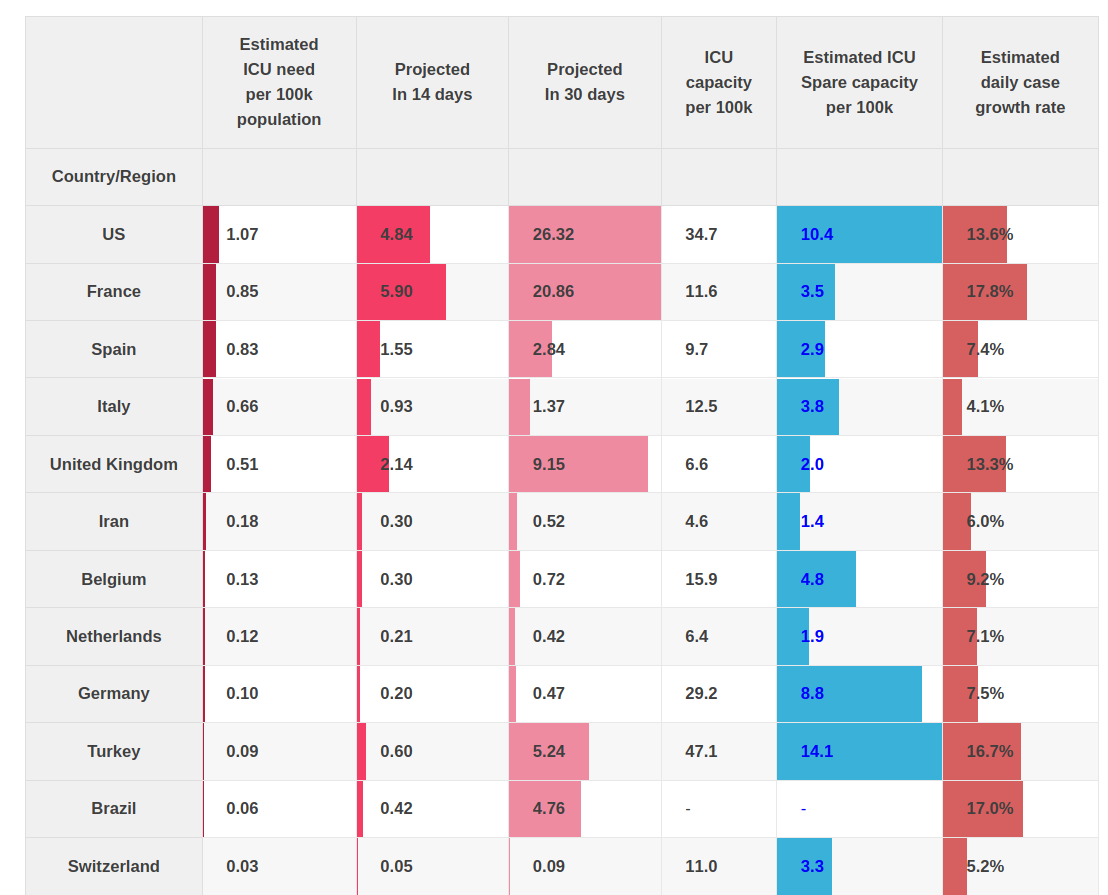
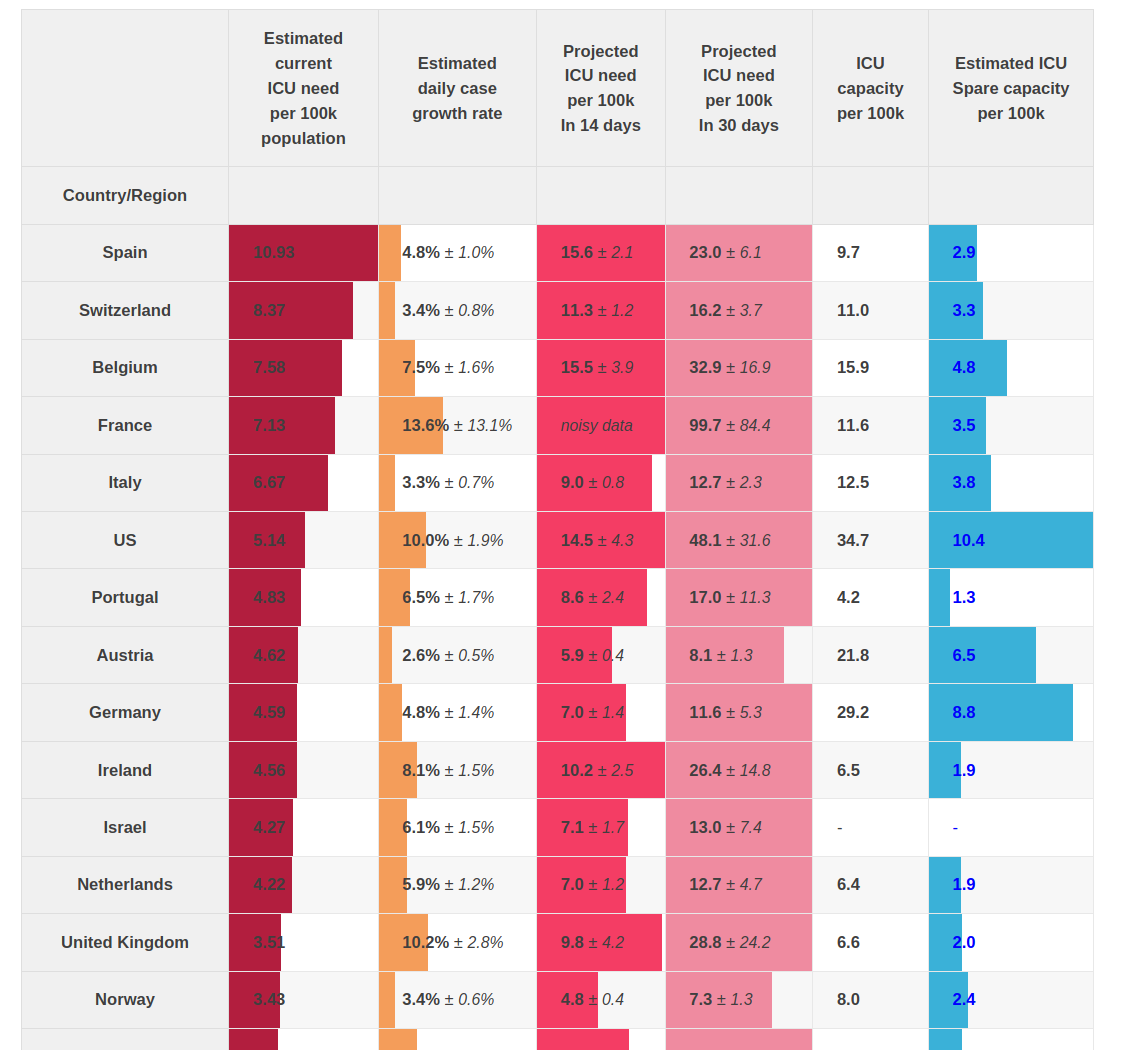
Fix and update ICU calculation, remove separate ICU notebook.

diff --git a/_notebooks/2020-03-27-covid19-progress-projections.py b/_notebooks/2020-03-27-covid19-progress-projections.py
@@ -22,7 +22,7 @@
 # - categories: [overview]
 # - author: <a href=https://github.com/artdgn/>artdgn</a>
 # - permalink: /covid-progress-projections/
-# - image: images/interactive-model.png
+# - image: images/icu-need.png
 # - toc: true
 # - hide: false
 # -
@@ -36,14 +36,15 @@ import covid_helpers
 
 helper = covid_helpers.OverviewData
 stylers = covid_helpers.PandasStyling
-df = helper.filter_df(helper.table_with_projections())
+df_all = helper.table_with_projections()
+df = helper.filter_df(df_all)
 df.columns
 # -
 
 # ## Projected need for ICU beds
-# > Top 20 countries by current estimated need.
+# > Countries sorted by current estimated need.
 #
-# - ICU need is estimated as [6% of active cases](https://medium.com/@joschabach/flattening-the-curve-is-a-deadly-delusion-eea324fe9727).
+# - ICU need is estimated as [4.4% of active reported cases](https://www.imperial.ac.uk/media/imperial-college/medicine/sph/ide/gida-fellowships/Imperial-College-COVID19-NPI-modelling-16-03-2020.pdf).
 # - ICU capacities are from [Wikipedia](https://en.wikipedia.org/wiki/List_of_countries_by_hospital_beds) (OECD countries mostly) and [CCB capacities in Asia](https://www.researchgate.net/publication/338520008_Critical_Care_Bed_Capacity_in_Asian_Countries_and_Regions).
 # - ICU spare capacity is based on 70% normal occupancy rate ([66% in US](https://www.sccm.org/Blog/March-2020/United-States-Resource-Availability-for-COVID-19), [75% OECD](https://www.oecd-ilibrary.org/social-issues-migration-health/health-at-a-glance-2019_4dd50c09-en))
 # - Details of estimation and prediction calculations are in [Appendix](#appendix).
@@ -61,7 +62,7 @@ df.columns
 
 # +
 #hide_input
-df_data = df.sort_values('needICU.per100k', ascending=False).head(20)
+df_data = df.sort_values('needICU.per100k', ascending=False)
 df_pretty = df_data.copy()
 df_pretty['needICU.per100k.+14d'] = stylers.with_errs_float(
     df_pretty, 'needICU.per100k.+14d', 'needICU.per100k.+14d.err')
@@ -208,7 +209,7 @@ df_data[pretty_cols.values()].style\
            s_v=df_data['affected_ratio.est.+14d'], 
            subset=pretty_cols['progress'])\
     .apply(stylers.add_bar, color='#f43d64',
-           s_v=df_data['needICU.per100k.+14d']/3, 
+           s_v=df_data['needICU.per100k.+14d']/10, 
            subset=pretty_cols['icu'])\
     .apply(stylers.add_bar, color='#918f93',
            s_v=df_data['Deaths.new.per100k']/df_data['Deaths.new.per100k'].max(), 
@@ -219,17 +220,56 @@ df_data[pretty_cols.values()].style\
 # ## Appendix
 # - I'm not an epidemiologist. This is an attempt to understand what's happening, and what the future looks like if current trends remain unchanged.
 # - Everything is approximated and depends heavily on underlying assumptions.
-# - Total case estimation calculated from deaths by:
-#     - Assuming that unbiased fatality rate is 1.5% (from heavily tested countries / the cruise ship data) and that it takes 8 days on average for a case to go from being confirmed positive (after incubation + testing lag) to death. This is the same figure used by ["Estimating The Infected Population From Deaths"](https://covid19dashboards.com/covid-infected/).
-#     - Testing bias: the actual lagged fatality rate is than divided by the 1.5% figure to estimate the testing bias in a country. The estimated testing bias then multiplies the reported case numbers to estimate the *true* case numbers (*=case numbers if testing coverage was as comprehensive as in the heavily tested countries*).
-#     - The testing bias calculation is a high source of uncertainty in all these estimations and projections. Better source of testing bias (or just *true case* numbers), should make everything more accurate.
 # - Projection is done using a simple [SIR model](https://en.wikipedia.org/wiki/Compartmental_models_in_epidemiology#The_SIR_model) with (see [examples](#examples)) combined with the approach in [Total Outstanding Cases](https://covid19dashboards.com/outstanding_cases/#Appendix:-Methodology-of-Predicting-Recovered-Cases):
 #     - Growth rate calculated over the 5 past days. This is pessimistic - because it includes the testing rate growth rate as well, and is slow to react to both improvements in test coverage and "flattening" due to social isolation.
 #     - Confidence bounds are calculated by from the weighted STD of the growth rate over the last 5 days. Model predictions are calculated for growth rates within 1 STD of the weighted mean. The maximum and minimum values for each day are used as confidence bands.
 #     - For projections (into future) very noisy projections (with broad confidence bounds) are not shown in the tables.
-#     - Recovery probability being 1/20 (for 20 days to recover) where the rate estimated from [Total Outstanding Cases](https://covid19dashboards.com/outstanding_cases/#Appendix:-Methodology-of-Predicting-Recovered-Cases) is too high (on down-slopes).    
-# - ICU need is calculated as being [6% of active cases](https://medium.com/@joschabach/flattening-the-curve-is-a-deadly-delusion-eea324fe9727) where:
-#     - Active cases are taken from the SIR model.
-#     - This is both pessimistic - because real ICU rate may in reality be lower, due to testing biases, and especially in "younger" populations), and optimistic - because active cases which are on ICU take longer (so need the ICUs for longer).
+#     - Recovery probability being 1/20 (for 20 days to recover) where the rate estimated from [Total Outstanding Cases](https://covid19dashboards.com/outstanding_cases/#Appendix:-Methodology-of-Predicting-Recovered-Cases) is too high (on down-slopes).  
+# - ICU need is calculated as being [4.4% of active reported cases](https://www.imperial.ac.uk/media/imperial-college/medicine/sph/ide/gida-fellowships/Imperial-College-COVID19-NPI-modelling-16-03-2020.pdf) where:
+#     - Active cases are taken from the SIR model. The ICU need is calculated from reported cases rather than from total estimated active cases. This is because the ICU ratio (4.4%) is based on symptomatic reported cases.
 #     - ICU capacities are from [Wikipedia](https://en.wikipedia.org/wiki/List_of_countries_by_hospital_beds) (OECD countries mostly) and [CCB capacities in Asia](https://www.researchgate.net/publication/338520008_Critical_Care_Bed_Capacity_in_Asian_Countries_and_Regions).
 #     - ICU spare capacity is based on 70% normal occupancy rate ([66% in US](https://www.sccm.org/Blog/March-2020/United-States-Resource-Availability-for-COVID-19), [75% OECD](https://www.oecd-ilibrary.org/social-issues-migration-health/health-at-a-glance-2019_4dd50c09-en))
+# - Total case estimation calculated from deaths by:
+#     - Assuming that unbiased fatality rate is 1.5% (from heavily tested countries / the cruise ship data) and that it takes 8 days on average for a case to go from being confirmed positive (after incubation + testing lag) to death. This is the same figure used by ["Estimating The Infected Population From Deaths"](https://covid19dashboards.com/covid-infected/).
+#     - Testing bias: the actual lagged fatality rate is than divided by the 1.5% figure to estimate the testing bias in a country. The estimated testing bias then multiplies the reported case numbers to estimate the *true* case numbers (*=case numbers if testing coverage was as comprehensive as in the heavily tested countries*).
+#     - The testing bias calculation is a high source of uncertainty in all these estimations and projections. Better source of testing bias (or just *true case* numbers), should make everything more accurate.  
+
+# +
+#hide
+# _, debug_dfs = helper.table_with_projections(debug_countries=df_all.index)
+
+# df_alt = pd.concat([d.reset_index() for d in debug_dfs], axis=0)
+
+# +
+#hide
+# t = df_alt.rename(columns={'country': 'Country/Region'}).set_index('Country/Region')
+# t['population'] = df['population']
+# for c in t.columns[df_alt.dtypes == float]:
+#     t[c + '_tot'] = t[c] * t['population']
+# t = t.reset_index()
+# t.columns = [c.replace('.', '_') for c in t.columns]
+# t.head()
+
+# +
+# #hide
+# import altair as alt
+
+# s = alt.Chart(t).mark_area(opacity=0.4).encode(
+#     x="day:Q",
+#     y=alt.Y("Susceptible_tot:Q", stack=True),
+#     color="Country/Region:N",
+#     tooltip=['Country/Region', 'Susceptible', 'Infected', 'Removed']
+# ).interactive()
+# i = alt.Chart(t).mark_area(opacity=0.4).encode(
+#     x="day:Q",
+#     y=alt.Y("Infected_tot:Q", stack=True),
+#     color="Country/Region:N",
+#     tooltip=['Country/Region', 'Susceptible', 'Infected', 'Removed']
+# ).interactive()
+# r = alt.Chart(t).mark_area(opacity=0.4).encode(
+#     x="day:Q",
+#     y=alt.Y("Removed_tot:Q", stack=True),
+#     color="Country/Region:N",
+#     tooltip=['Country/Region', 'Susceptible', 'Infected', 'Removed']
+# ).interactive()
+# (s & i & r)

diff --git a/_notebooks/covid_helpers.py b/_notebooks/covid_helpers.py
@@ -136,7 +136,9 @@ class OverviewData:
     ## sir model
     rec_rate_simple = 0.05
     ## icu need estimation
-    ICU_ratio = 0.06
+    ## https://www.imperial.ac.uk/media/imperial-college/medicine/sph/ide/gida-fellowships/Imperial-College-COVID19-NPI-modelling-16-03-2020.pdf
+    ## 4.4% serious symptomatic cases
+    ICU_ratio = 0.044
     ## ICU spare capacity
     # occupancy 66% for us:
     #   https://www.sccm.org/Blog/March-2020/United-States-Resource-Availability-for-COVID-19
@@ -364,7 +366,7 @@ class OverviewData:
         for day in [1] + list(projection_days):
             ind = day_one + day - 1
             suffix = f'.+{day}d' if day > 1 else ''
-            icu_max = df['population'] * cls.ICU_ratio / 1e5
+            icu_max = cls.ICU_ratio * 1e5 / df['testing_bias']
             df[f'needICU.per100k{suffix}'] = act[ind] * icu_max
             df[f'needICU.per100k{suffix}.max'] = act_max[ind] * icu_max
             df[f'needICU.per100k{suffix}.min'] = act_min[ind] * icu_max
@@ -452,7 +454,7 @@ class OverviewData:
     def filter_df(cls, df):
         df = df.rename(index={'Bosnia and Herzegovina': 'Bosnia',
                               'United Arab Emirates': 'UAE'})
-        return df[df['Deaths.total'] > 10][df.columns.sort_values()]
+        return df[(df['Deaths.total'] > 10) & (df['population'] > 1e6)][df.columns.sort_values()]
 
 
 def pandas_console_options():
